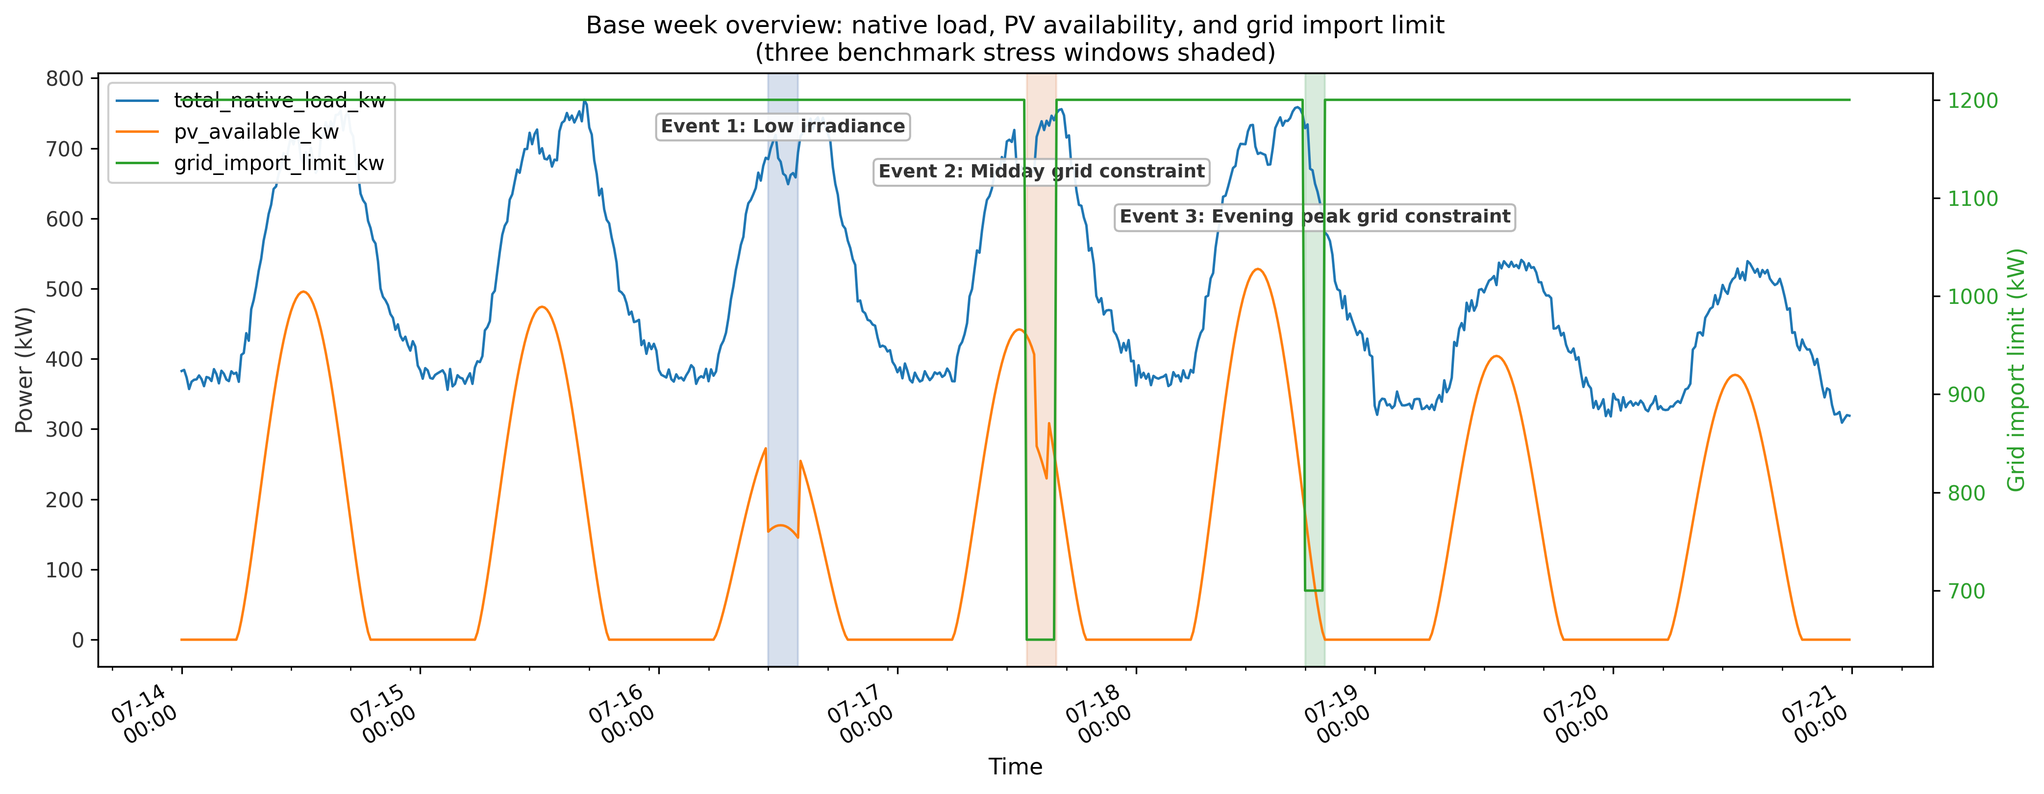
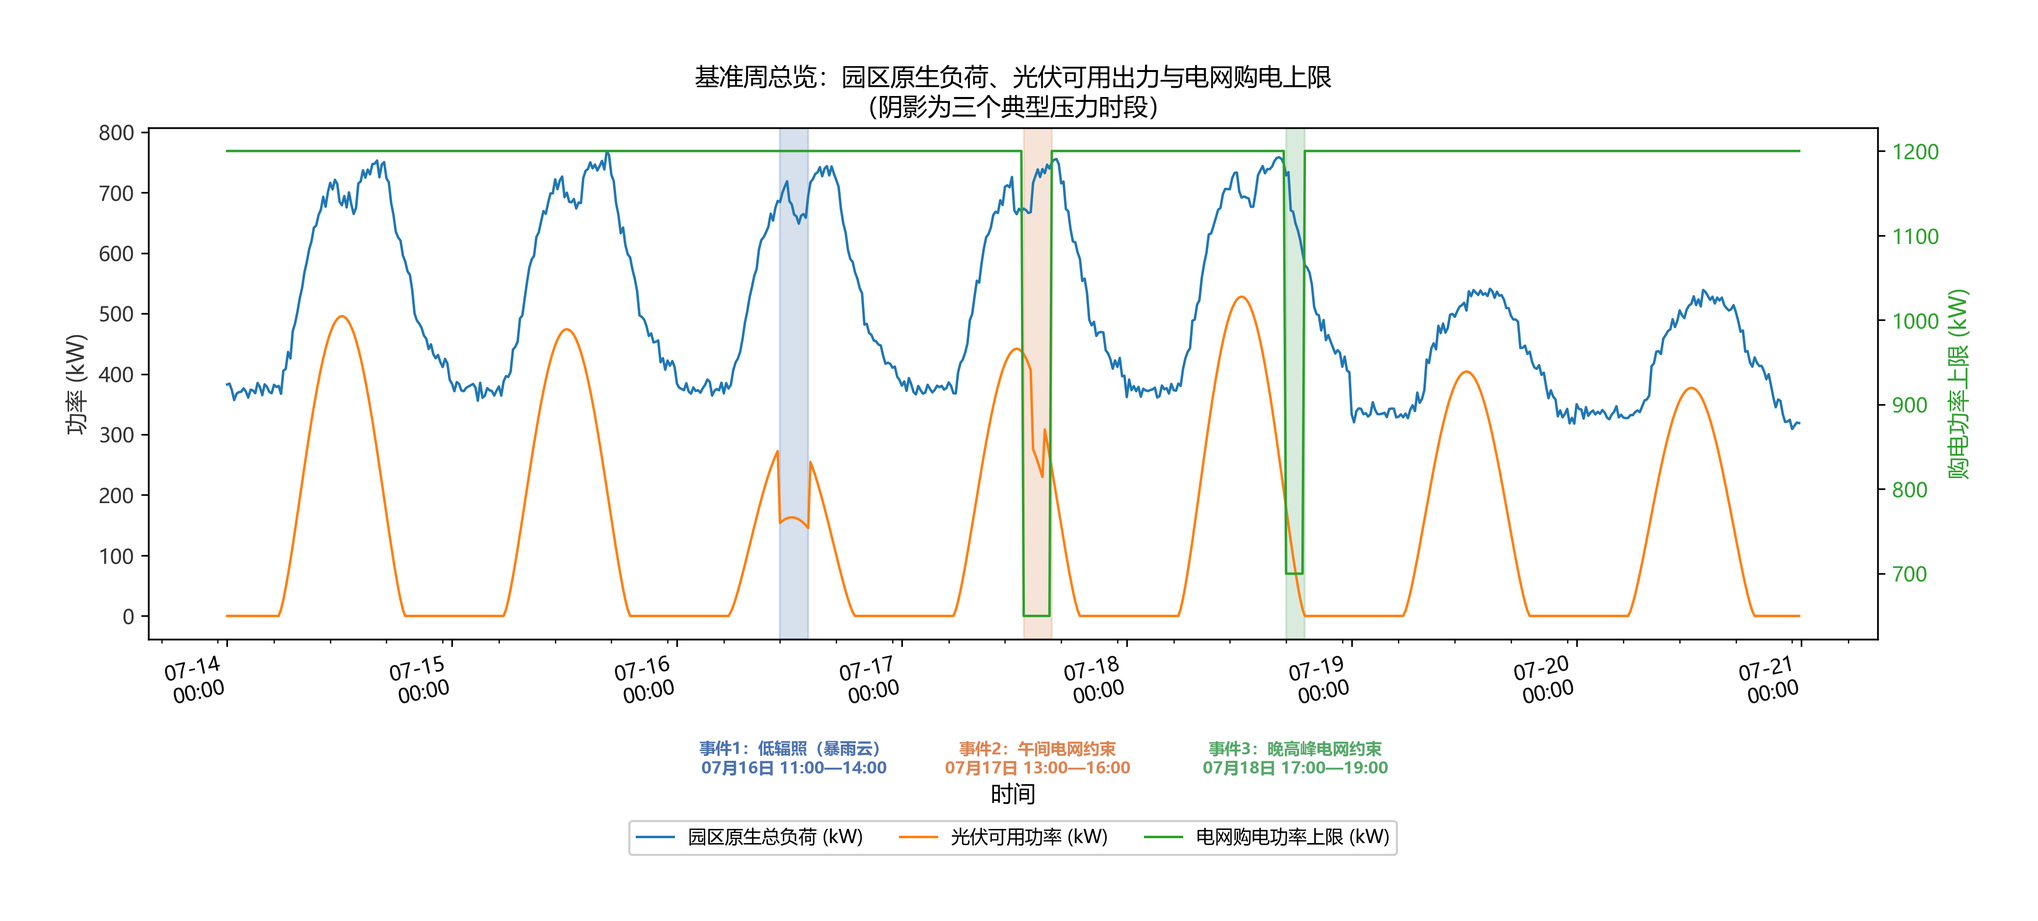
添加内容

diff --git a/scripts/visualize_special_events.py b/scripts/visualize_special_events.py
@@ -8,6 +8,7 @@ import matplotlib.dates as mdates
 import matplotlib.pyplot as plt
 import numpy as np
 import pandas as pd
+from matplotlib.transforms import blended_transform_factory
 
 ROOT = Path(__file__).resolve().parents[1]
 RAW = ROOT / "data" / "raw"
@@ -19,11 +20,16 @@ SCENARIO_PATH = RAW / "scenario_notes.csv"
 
 DPI = 300
 
+# 图例用中文（与曲线物理量对应）
+LEGEND_LOAD = "园区原生总负荷 (kW)"
+LEGEND_PV = "光伏可用功率 (kW)"
+LEGEND_GRID = "电网购电功率上限 (kW)"
+
 EVENTS = [
     {
         "event_id": 1,
-        "event_name": "Low irradiance (storm clouds)",
-        "label": "Event 1: Low irradiance",
+        "event_name": "低辐照（暴雨云）",
+        "label": "事件1：低辐照（暴雨云）",
         "start": pd.Timestamp("2025-07-16 11:00:00"),
         "end": pd.Timestamp("2025-07-16 14:00:00"),
         "primary_var": "solar_irradiance_wm2",
@@ -33,8 +39,8 @@ EVENTS = [
     },
     {
         "event_id": 2,
-        "event_name": "Midday grid import cap (650 kW)",
-        "label": "Event 2: Midday grid constraint",
+        "event_name": "午间购电上限收紧（650 kW）",
+        "label": "事件2：午间电网约束",
         "start": pd.Timestamp("2025-07-17 13:00:00"),
         "end": pd.Timestamp("2025-07-17 16:00:00"),
         "primary_var": "grid_import_limit_kw",
@@ -44,8 +50,8 @@ EVENTS = [
     },
     {
         "event_id": 3,
-        "event_name": "Evening peak grid import cap (700 kW)",
-        "label": "Event 3: Evening peak grid constraint",
+        "event_name": "晚高峰购电上限收紧（700 kW）",
+        "label": "事件3：晚高峰电网约束",
         "start": pd.Timestamp("2025-07-18 17:00:00"),
         "end": pd.Timestamp("2025-07-18 19:00:00"),
         "primary_var": "grid_import_limit_kw",
@@ -54,6 +60,19 @@ EVENTS = [
         "stress_type": "晚高峰复合压力",
     },
 ]
+
+
+def setup_chinese_matplotlib() -> None:
+    """数模/中文环境：优先使用系统常见中文字体，避免缺字方块。"""
+    plt.rcParams["font.sans-serif"] = [
+        "Microsoft YaHei",
+        "SimHei",
+        "SimSun",
+        "KaiTi",
+        "FangSong",
+        "DejaVu Sans",
+    ]
+    plt.rcParams["axes.unicode_minus"] = False
 
 
 def load_timeseries() -> pd.DataFrame:
@@ -104,6 +123,37 @@ def pct_change(event_val: float, weekly_val: float) -> float:
     return (event_val - weekly_val) / weekly_val * 100.0
 
 
+VARIABLE_LABEL_ZH = {
+    "solar_irradiance_wm2": "太阳辐照度(W/m²)",
+    "pv_available_kw": "光伏可用功率(kW)",
+    "grid_import_limit_kw": "电网购电功率上限(kW)",
+    "total_native_load_kw": "园区原生总负荷(kW)",
+}
+
+
+SUMMARY_COLUMNS_ZH = {
+    "event_id": "事件编号",
+    "event_name": "事件名称",
+    "start_time": "开始时刻",
+    "end_time": "结束时刻",
+    "duration_hours": "持续时长_h",
+    "affected_variable_primary": "主要影响变量",
+    "affected_variable_secondary": "次要影响变量",
+    "event_period_mean_load_kw": "事件期平均负荷_kW",
+    "event_period_peak_load_kw": "事件期峰值负荷_kW",
+    "event_period_mean_pv_kw": "事件期平均光伏_kW",
+    "event_period_min_pv_kw": "事件期最小光伏_kW",
+    "event_period_mean_grid_limit_kw": "事件期平均购电上限_kW",
+    "weekly_mean_load_kw": "全周平均负荷_kW",
+    "weekly_mean_pv_kw": "全周平均光伏_kW",
+    "weekly_mean_grid_limit_kw": "全周平均购电上限_kW",
+    "event_period_mean_net_load_kw": "事件期平均净负荷_kW",
+    "weekly_mean_net_load_kw": "全周平均净负荷_kW",
+    "relative_change_vs_weekly_mean": "相对全周或对照窗口的变化",
+    "interpretation": "简要解释",
+}
+
+
 def build_summary_rows(df: pd.DataFrame) -> pd.DataFrame:
     wm = weekly_means(df)
     rows = []
@@ -127,8 +177,8 @@ def build_summary_rows(df: pd.DataFrame) -> pd.DataFrame:
             ref_irr = df.loc[ref_m, "solar_irradiance_wm2"].mean()
             ref_pv = df.loc[ref_m, "pv_available_kw"].mean()
             rel_parts = [
-                f"{prim}: {pct_change(e_prim, ref_irr):.1f}% (vs 11:00–14:00 on other days)",
-                f"{sec}: {pct_change(e_pv_mean, ref_pv):.1f}% (vs same window)",
+                f"{VARIABLE_LABEL_ZH.get(prim, prim)}：{pct_change(e_prim, ref_irr):.1f}%（相对同周其他日 11:00–14:00 均值）",
+                f"{VARIABLE_LABEL_ZH.get(sec, sec)}：{pct_change(e_pv_mean, ref_pv):.1f}%（同时段对照）",
             ]
             interp = (
                 "暴雨云导致该午间窗口内辐照度与光伏可用出力相对同周其他日同一时段明显偏低，"
@@ -137,7 +187,7 @@ def build_summary_rows(df: pd.DataFrame) -> pd.DataFrame:
         elif ev["event_id"] == 2:
             e_prim = sub[prim].mean()
             rel_parts = [
-                f"{prim}: {pct_change(e_prim, wm['weekly_mean_grid_limit_kw']):.1f}%",
+                f"{VARIABLE_LABEL_ZH.get(prim, prim)}：{pct_change(e_prim, wm['weekly_mean_grid_limit_kw']):.1f}%（相对全周均值）",
             ]
             interp = (
                 "午间时段电网购电上限降至650 kW，在负荷与光伏叠加下更易出现购电越限或需依赖储能/削减。"
@@ -145,7 +195,7 @@ def build_summary_rows(df: pd.DataFrame) -> pd.DataFrame:
         else:
             e_prim = sub[prim].mean()
             rel_parts = [
-                f"{prim}: {pct_change(e_prim, wm['weekly_mean_grid_limit_kw']):.1f}%",
+                f"{VARIABLE_LABEL_ZH.get(prim, prim)}：{pct_change(e_prim, wm['weekly_mean_grid_limit_kw']):.1f}%（相对全周均值）",
             ]
             interp = (
                 "晚高峰时段购电上限收紧至700 kW，与负荷上升叠加，形成“负荷高+外网紧”的复合压力。"
@@ -158,8 +208,8 @@ def build_summary_rows(df: pd.DataFrame) -> pd.DataFrame:
                 "start_time": ev["start"].isoformat(sep=" "),
                 "end_time": ev["end"].isoformat(sep=" "),
                 "duration_hours": round(dur_h, 4),
-                "affected_variable_primary": prim,
-                "affected_variable_secondary": sec,
+                "affected_variable_primary": VARIABLE_LABEL_ZH.get(prim, prim),
+                "affected_variable_secondary": VARIABLE_LABEL_ZH.get(sec, sec),
                 "event_period_mean_load_kw": round(e_load, 4),
                 "event_period_peak_load_kw": round(float(e_peak), 4),
                 "event_period_mean_pv_kw": round(e_pv_mean, 4),
@@ -177,14 +227,20 @@ def build_summary_rows(df: pd.DataFrame) -> pd.DataFrame:
     return pd.DataFrame(rows)
 
 
+def _event_time_range_str(ev: dict) -> str:
+    s = ev["start"].strftime("%m月%d日 %H:%M")
+    e = ev["end"].strftime("%H:%M")
+    return f"{s}—{e}"
+
+
 def plot_overview(df: pd.DataFrame) -> None:
-    fig, ax_left = plt.subplots(figsize=(14, 5.5), dpi=DPI)
+    fig, ax_left = plt.subplots(figsize=(14, 6.0), dpi=DPI)
     ax_right = ax_left.twinx()
 
     ts = df["timestamp"]
-    (l1,) = ax_left.plot(ts, df["total_native_load_kw"], color="#1f77b4", lw=1.2, label="total_native_load_kw")
-    (l2,) = ax_left.plot(ts, df["pv_available_kw"], color="#ff7f0e", lw=1.2, label="pv_available_kw")
-    (l3,) = ax_right.plot(ts, df["grid_import_limit_kw"], color="#2ca02c", lw=1.2, ls="-", label="grid_import_limit_kw")
+    (l1,) = ax_left.plot(ts, df["total_native_load_kw"], color="#1f77b4", lw=1.2, label=LEGEND_LOAD)
+    (l2,) = ax_left.plot(ts, df["pv_available_kw"], color="#ff7f0e", lw=1.2, label=LEGEND_PV)
+    (l3,) = ax_right.plot(ts, df["grid_import_limit_kw"], color="#2ca02c", lw=1.2, ls="-", label=LEGEND_GRID)
 
     for ev in EVENTS:
         ax_left.axvspan(
@@ -194,40 +250,59 @@ def plot_overview(df: pd.DataFrame) -> None:
             alpha=0.22,
             zorder=0,
         )
-        y_text = ax_left.get_ylim()[1] * (0.92 - 0.08 * (ev["event_id"] - 1))
-        ax_left.text(
-            ev["start"] + (ev["end"] - ev["start"]) / 2,
-            y_text,
-            ev["label"],
-            ha="center",
-            va="top",
-            fontsize=9,
-            fontweight="bold",
-            color="#333333",
-            bbox=dict(boxstyle="round,pad=0.25", facecolor="white", edgecolor="0.7", alpha=0.9),
-        )
 
-    ax_left.set_xlabel("Time", fontsize=11)
-    ax_left.set_ylabel("Power (kW)", fontsize=11, color="#333333")
-    ax_right.set_ylabel("Grid import limit (kW)", fontsize=11, color="#2ca02c")
+    ax_left.set_xlabel("时间", fontsize=11, labelpad=36)
+    ax_left.set_ylabel("功率 (kW)", fontsize=11, color="#333333")
+    ax_right.set_ylabel("购电功率上限 (kW)", fontsize=11, color="#2ca02c")
     ax_left.tick_params(axis="y", labelcolor="#333333")
     ax_right.tick_params(axis="y", labelcolor="#2ca02c")
     ax_left.set_title(
-        "Base week overview: native load, PV availability, and grid import limit\n"
-        "(three benchmark stress windows shaded)",
+        "基准周总览：园区原生负荷、光伏可用出力与电网购电上限\n（阴影为三个典型压力时段）",
         fontsize=12,
     )
     ax_left.xaxis.set_major_formatter(mdates.DateFormatter("%m-%d\n%H:%M"))
     ax_left.xaxis.set_major_locator(mdates.DayLocator())
     ax_left.xaxis.set_minor_locator(mdates.HourLocator(interval=6))
-    fig.autofmt_xdate()
+    plt.setp(ax_left.get_xticklabels(), rotation=12, ha="right")
+
+    # 事件说明贴在时间轴下方（数据坐标 x + 轴坐标 y），不进入主绘图区
+    trans = blended_transform_factory(ax_left.transData, ax_left.transAxes)
+    for ev in EVENTS:
+        mid = ev["start"] + (ev["end"] - ev["start"]) / 2
+        caption = f"{ev['label']}\n{_event_time_range_str(ev)}"
+        ax_left.text(
+            mid,
+            -0.20,
+            caption,
+            transform=trans,
+            ha="center",
+            va="top",
+            fontsize=8,
+            color=ev["shade_color"],
+            fontweight="bold",
+            clip_on=False,
+        )
 
     lines = [l1, l2, l3]
     labels = [l.get_label() for l in lines]
-    ax_left.legend(lines, labels, loc="upper left", framealpha=0.95)
+    fig.legend(
+        lines,
+        labels,
+        loc="lower center",
+        bbox_to_anchor=(0.5, 0.045),
+        ncol=3,
+        frameon=True,
+        fontsize=9,
+        framealpha=0.95,
+    )
 
-    fig.tight_layout()
-    fig.savefig(OUT / "special_events_overview.png", dpi=DPI, bbox_inches="tight")
+    fig.subplots_adjust(bottom=0.30, top=0.88, left=0.08, right=0.92)
+    fig.savefig(
+        OUT / "special_events_overview.png",
+        dpi=DPI,
+        bbox_inches="tight",
+        pad_inches=0.45,
+    )
     plt.close(fig)
 
 
@@ -242,12 +317,12 @@ def plot_zoom_panels(df: pd.DataFrame) -> None:
         if sub.empty:
             continue
         ax_t = ax.twinx()
-        ax.plot(sub["timestamp"], sub["total_native_load_kw"], color="#1f77b4", lw=1.3, label="total_native_load_kw")
-        ax.plot(sub["timestamp"], sub["pv_available_kw"], color="#ff7f0e", lw=1.3, label="pv_available_kw")
-        ax_t.plot(sub["timestamp"], sub["grid_import_limit_kw"], color="#2ca02c", lw=1.3, ls="-", label="grid_import_limit_kw")
+        ax.plot(sub["timestamp"], sub["total_native_load_kw"], color="#1f77b4", lw=1.3, label=LEGEND_LOAD)
+        ax.plot(sub["timestamp"], sub["pv_available_kw"], color="#ff7f0e", lw=1.3, label=LEGEND_PV)
+        ax_t.plot(sub["timestamp"], sub["grid_import_limit_kw"], color="#2ca02c", lw=1.3, ls="-", label=LEGEND_GRID)
         ax.axvspan(ev["start"], ev["end"], color=ev["shade_color"], alpha=0.25, zorder=0)
-        ax.set_ylabel("Load / PV (kW)", fontsize=10)
-        ax_t.set_ylabel("Grid limit (kW)", fontsize=10, color="#2ca02c")
+        ax.set_ylabel("负荷 / 光伏 (kW)", fontsize=10)
+        ax_t.set_ylabel("购电上限 (kW)", fontsize=10, color="#2ca02c")
         ax_t.tick_params(axis="y", labelcolor="#2ca02c")
         ax.set_title(ev["label"], fontsize=11, fontweight="bold")
         ax.xaxis.set_major_formatter(mdates.DateFormatter("%H:%M\n%m-%d"))
@@ -256,8 +331,8 @@ def plot_zoom_panels(df: pd.DataFrame) -> None:
         if h_t:
             ax_t.legend(h_t, l_t, loc="upper right", fontsize=8)
 
-    axes[-1].set_xlabel("Time", fontsize=11)
-    fig.suptitle("Zoomed views (±2 h around each event)", fontsize=12, y=1.01)
+    axes[-1].set_xlabel("时间", fontsize=11)
+    fig.suptitle("分事件局部放大（各窗口为事件前后各扩展 2 小时）", fontsize=12, y=1.01)
     fig.tight_layout()
     fig.savefig(OUT / "special_events_zoomed_panels.png", dpi=DPI, bbox_inches="tight")
     plt.close(fig)
@@ -280,12 +355,13 @@ def dataframe_to_markdown_table(df: pd.DataFrame) -> str:
 
 
 def summary_to_markdown(sdf: pd.DataFrame) -> str:
+    sdf_zh = sdf.rename(columns=SUMMARY_COLUMNS_ZH)
     lines = [
         "# 特殊事件汇总（special_events_summary）",
         "",
         "数据来源：`data/raw/timeseries_15min.csv`，事件定义见 `data/raw/scenario_notes.csv`。",
         "",
-        dataframe_to_markdown_table(sdf),
+        dataframe_to_markdown_table(sdf_zh),
         "",
     ]
     return "\n".join(lines)
@@ -308,17 +384,17 @@ def write_notes_md() -> None:
 
 | 事件 | 含义 |
 |------|------|
-| Event 1 | 2025-07-16 11:00–14:00 强对流天气云系导致**太阳辐照度下降**，进而压低**光伏可用出力**。 |
-| Event 2 | 2025-07-17 13:00–16:00 **午间购电功率上限**在数据中降至 **650 kW**（外网或合约约束的体现）。 |
-| Event 3 | 2025-07-18 17:00–19:00 **晚高峰**时段购电上限降至 **700 kW**，与典型负荷抬升时段重叠。 |
+| 事件1 | 2025-07-16 11:00–14:00 强对流天气云系导致**太阳辐照度下降**，进而压低**光伏可用出力**。 |
+| 事件2 | 2025-07-17 13:00–16:00 **午间购电功率上限**在数据中降至 **650 kW**（外网或合约约束的体现）。 |
+| 事件3 | 2025-07-18 17:00–19:00 **晚高峰**时段购电上限降至 **700 kW**，与典型负荷抬升时段重叠。 |
 
 ## 3. 系统压力类型归类
 
 | 事件 | 压力类型 |
 |------|----------|
-| Event 1 | **供给侧波动**（可再生出力不确定性/天气冲击） |
-| Event 2 | **外部电网约束**（并网购电能力受限） |
-| Event 3 | **晚高峰复合压力**（负荷侧偏高 + 外网约束叠加） |
+| 事件1 | **供给侧波动**（可再生出力不确定性/天气冲击） |
+| 事件2 | **外部电网约束**（并网购电能力受限） |
+| 事件3 | **晚高峰复合压力**（负荷侧偏高 + 外网约束叠加） |
 
 ## 4. 与问题1建模的关系
 
@@ -330,8 +406,8 @@ def write_notes_md() -> None:
 
 ## 5. 汇总表中相对变化口径
 
-- **Event 1**：`solar_irradiance_wm2` 与 `pv_available_kw` 的相对变化以**同周其他日、相同 11:00–14:00 钟点窗口**的均值为参照（避免全周 24h 均值被夜间零辐照稀释，导致符号误导）。
-- **Event 2、3**：`grid_import_limit_kw` 相对变化仍以**全周 15 min 序列均值**为参照。
+- **事件1**：`solar_irradiance_wm2` 与 `pv_available_kw` 的相对变化以**同周其他日、相同 11:00–14:00 钟点窗口**的均值为参照（避免全周 24h 均值被夜间零辐照稀释，导致符号误导）。
+- **事件2、3**：`grid_import_limit_kw` 相对变化仍以**全周 15 min 序列均值**为参照。
 
 ---
 *由 `scripts/visualize_special_events.py` 自动生成说明骨架；数值结果见同目录 `special_events_summary.csv`。*
@@ -342,11 +418,13 @@ def write_notes_md() -> None:
 def main() -> None:
     df = load_timeseries()
     sdf = build_summary_rows(df)
-    sdf.to_csv(OUT / "special_events_summary.csv", index=False, encoding="utf-8-sig")
+    sdf.rename(columns=SUMMARY_COLUMNS_ZH).to_csv(
+        OUT / "special_events_summary.csv", index=False, encoding="utf-8-sig"
+    )
 
     (OUT / "special_events_summary.md").write_text(summary_to_markdown(sdf), encoding="utf-8")
 
-    plt.rcParams["font.family"] = ["DejaVu Sans", "Arial", "sans-serif"]
+    setup_chinese_matplotlib()
     plot_overview(df)
     plot_zoom_panels(df)
     write_notes_md()

diff --git a/results/special_events/special_events_summary.md b/results/special_events/special_events_summary.md
@@ -2,8 +2,8 @@
 
 数据来源：`data/raw/timeseries_15min.csv`，事件定义见 `data/raw/scenario_notes.csv`。
 
-| event_id | event_name | start_time | end_time | duration_hours | affected_variable_primary | affected_variable_secondary | event_period_mean_load_kw | event_period_peak_load_kw | event_period_mean_pv_kw | event_period_min_pv_kw | event_period_mean_grid_limit_kw | weekly_mean_load_kw | weekly_mean_pv_kw | weekly_mean_grid_limit_kw | event_period_mean_net_load_kw | weekly_mean_net_load_kw | relative_change_vs_weekly_mean | interpretation |
+| 事件编号 | 事件名称 | 开始时刻 | 结束时刻 | 持续时长_h | 主要影响变量 | 次要影响变量 | 事件期平均负荷_kW | 事件期峰值负荷_kW | 事件期平均光伏_kW | 事件期最小光伏_kW | 事件期平均购电上限_kW | 全周平均负荷_kW | 全周平均光伏_kW | 全周平均购电上限_kW | 事件期平均净负荷_kW | 全周平均净负荷_kW | 相对全周或对照窗口的变化 | 简要解释 |
 | --- | --- | --- | --- | --- | --- | --- | --- | --- | --- | --- | --- | --- | --- | --- | --- | --- | --- | --- |
-| 1 | Low irradiance (storm clouds) | 2025-07-16 11:00:00 | 2025-07-16 14:00:00 | 3.0 | solar_irradiance_wm2 | pv_available_kw | 678.2417 | 718.9 | 158.575 | 149.9 | 1200.0 | 506.0804 | 136.722 | 1184.2262 | 519.6667 | 369.3583 | solar_irradiance_wm2: -64.1% (vs 11:00–14:00 on other days); pv_available_kw: -64.1% (vs same window) | 暴雨云导致该午间窗口内辐照度与光伏可用出力相对同周其他日同一时段明显偏低，净负荷抬升，放大对购电/储能的依赖。 |
-| 2 | Midday grid import cap (650 kW) | 2025-07-17 13:00:00 | 2025-07-17 16:00:00 | 3.0 | grid_import_limit_kw | total_native_load_kw | 712.0667 | 746.4 | 317.75 | 229.7 | 650.0 | 506.0804 | 136.722 | 1184.2262 | 394.3167 | 369.3583 | grid_import_limit_kw: -45.1% | 午间时段电网购电上限降至650 kW，在负荷与光伏叠加下更易出现购电越限或需依赖储能/削减。 |
-| 3 | Evening peak grid import cap (700 kW) | 2025-07-18 17:00:00 | 2025-07-18 19:00:00 | 2.0 | grid_import_limit_kw | total_native_load_kw | 664.0875 | 734.0 | 89.3875 | 11.3 | 700.0 | 506.0804 | 136.722 | 1184.2262 | 574.7 | 369.3583 | grid_import_limit_kw: -40.9% | 晚高峰时段购电上限收紧至700 kW，与负荷上升叠加，形成“负荷高+外网紧”的复合压力。 |
+| 1 | 低辐照（暴雨云） | 2025-07-16 11:00:00 | 2025-07-16 14:00:00 | 3.0 | 太阳辐照度(W/m²) | 光伏可用功率(kW) | 678.2417 | 718.9 | 158.575 | 149.9 | 1200.0 | 506.0804 | 136.722 | 1184.2262 | 519.6667 | 369.3583 | 太阳辐照度(W/m²)：-64.1%（相对同周其他日 11:00–14:00 均值）; 光伏可用功率(kW)：-64.1%（同时段对照） | 暴雨云导致该午间窗口内辐照度与光伏可用出力相对同周其他日同一时段明显偏低，净负荷抬升，放大对购电/储能的依赖。 |
+| 2 | 午间购电上限收紧（650 kW） | 2025-07-17 13:00:00 | 2025-07-17 16:00:00 | 3.0 | 电网购电功率上限(kW) | 园区原生总负荷(kW) | 712.0667 | 746.4 | 317.75 | 229.7 | 650.0 | 506.0804 | 136.722 | 1184.2262 | 394.3167 | 369.3583 | 电网购电功率上限(kW)：-45.1%（相对全周均值） | 午间时段电网购电上限降至650 kW，在负荷与光伏叠加下更易出现购电越限或需依赖储能/削减。 |
+| 3 | 晚高峰购电上限收紧（700 kW） | 2025-07-18 17:00:00 | 2025-07-18 19:00:00 | 2.0 | 电网购电功率上限(kW) | 园区原生总负荷(kW) | 664.0875 | 734.0 | 89.3875 | 11.3 | 700.0 | 506.0804 | 136.722 | 1184.2262 | 574.7 | 369.3583 | 电网购电功率上限(kW)：-40.9%（相对全周均值） | 晚高峰时段购电上限收紧至700 kW，与负荷上升叠加，形成“负荷高+外网紧”的复合压力。 |

diff --git a/results/special_events/special_events_notes.md b/results/special_events/special_events_notes.md
@@ -15,17 +15,17 @@ stress_event_3 2025-07-18 17:00-19:00 grid import limit reduced to 700 kW during
 
 | 事件 | 含义 |
 |------|------|
-| Event 1 | 2025-07-16 11:00–14:00 强对流天气云系导致**太阳辐照度下降**，进而压低**光伏可用出力**。 |
-| Event 2 | 2025-07-17 13:00–16:00 **午间购电功率上限**在数据中降至 **650 kW**（外网或合约约束的体现）。 |
-| Event 3 | 2025-07-18 17:00–19:00 **晚高峰**时段购电上限降至 **700 kW**，与典型负荷抬升时段重叠。 |
+| 事件1 | 2025-07-16 11:00–14:00 强对流天气云系导致**太阳辐照度下降**，进而压低**光伏可用出力**。 |
+| 事件2 | 2025-07-17 13:00–16:00 **午间购电功率上限**在数据中降至 **650 kW**（外网或合约约束的体现）。 |
+| 事件3 | 2025-07-18 17:00–19:00 **晚高峰**时段购电上限降至 **700 kW**，与典型负荷抬升时段重叠。 |
 
 ## 3. 系统压力类型归类
 
 | 事件 | 压力类型 |
 |------|----------|
-| Event 1 | **供给侧波动**（可再生出力不确定性/天气冲击） |
-| Event 2 | **外部电网约束**（并网购电能力受限） |
-| Event 3 | **晚高峰复合压力**（负荷侧偏高 + 外网约束叠加） |
+| 事件1 | **供给侧波动**（可再生出力不确定性/天气冲击） |
+| 事件2 | **外部电网约束**（并网购电能力受限） |
+| 事件3 | **晚高峰复合压力**（负荷侧偏高 + 外网约束叠加） |
 
 ## 4. 与问题1建模的关系
 
@@ -37,8 +37,8 @@ stress_event_3 2025-07-18 17:00-19:00 grid import limit reduced to 700 kW during
 
 ## 5. 汇总表中相对变化口径
 
-- **Event 1**：`solar_irradiance_wm2` 与 `pv_available_kw` 的相对变化以**同周其他日、相同 11:00–14:00 钟点窗口**的均值为参照（避免全周 24h 均值被夜间零辐照稀释，导致符号误导）。
-- **Event 2、3**：`grid_import_limit_kw` 相对变化仍以**全周 15 min 序列均值**为参照。
+- **事件1**：`solar_irradiance_wm2` 与 `pv_available_kw` 的相对变化以**同周其他日、相同 11:00–14:00 钟点窗口**的均值为参照（避免全周 24h 均值被夜间零辐照稀释，导致符号误导）。
+- **事件2、3**：`grid_import_limit_kw` 相对变化仍以**全周 15 min 序列均值**为参照。
 
 ---
 *由 `scripts/visualize_special_events.py` 自动生成说明骨架；数值结果见同目录 `special_events_summary.csv`。*
